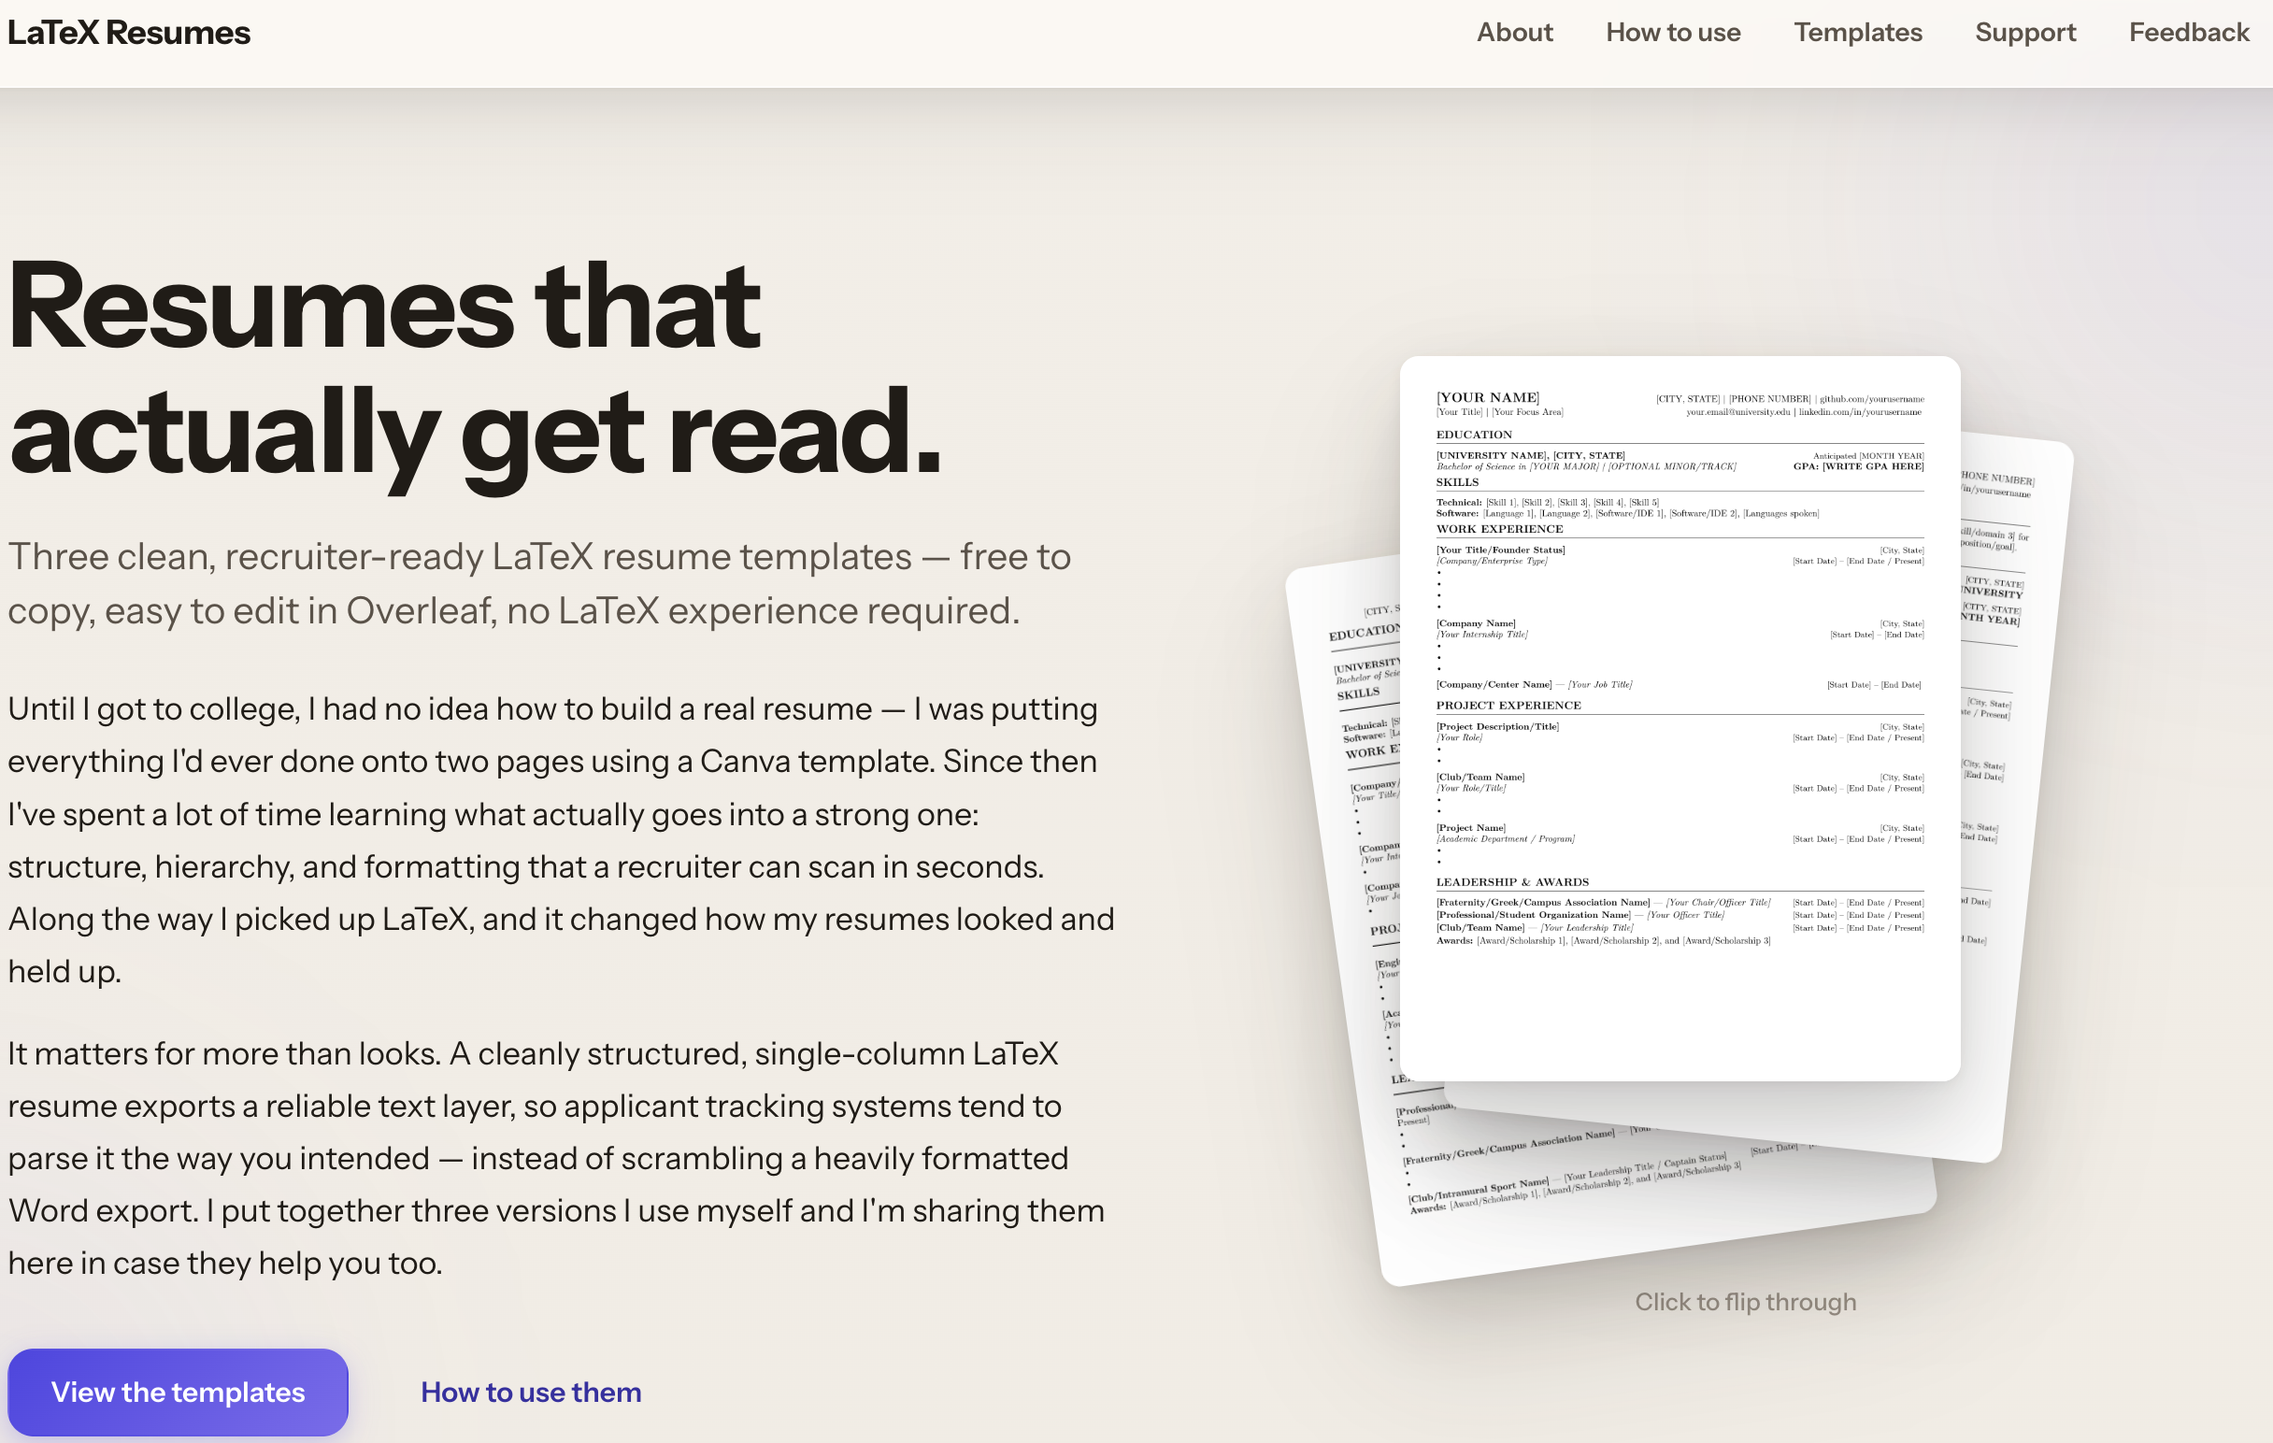
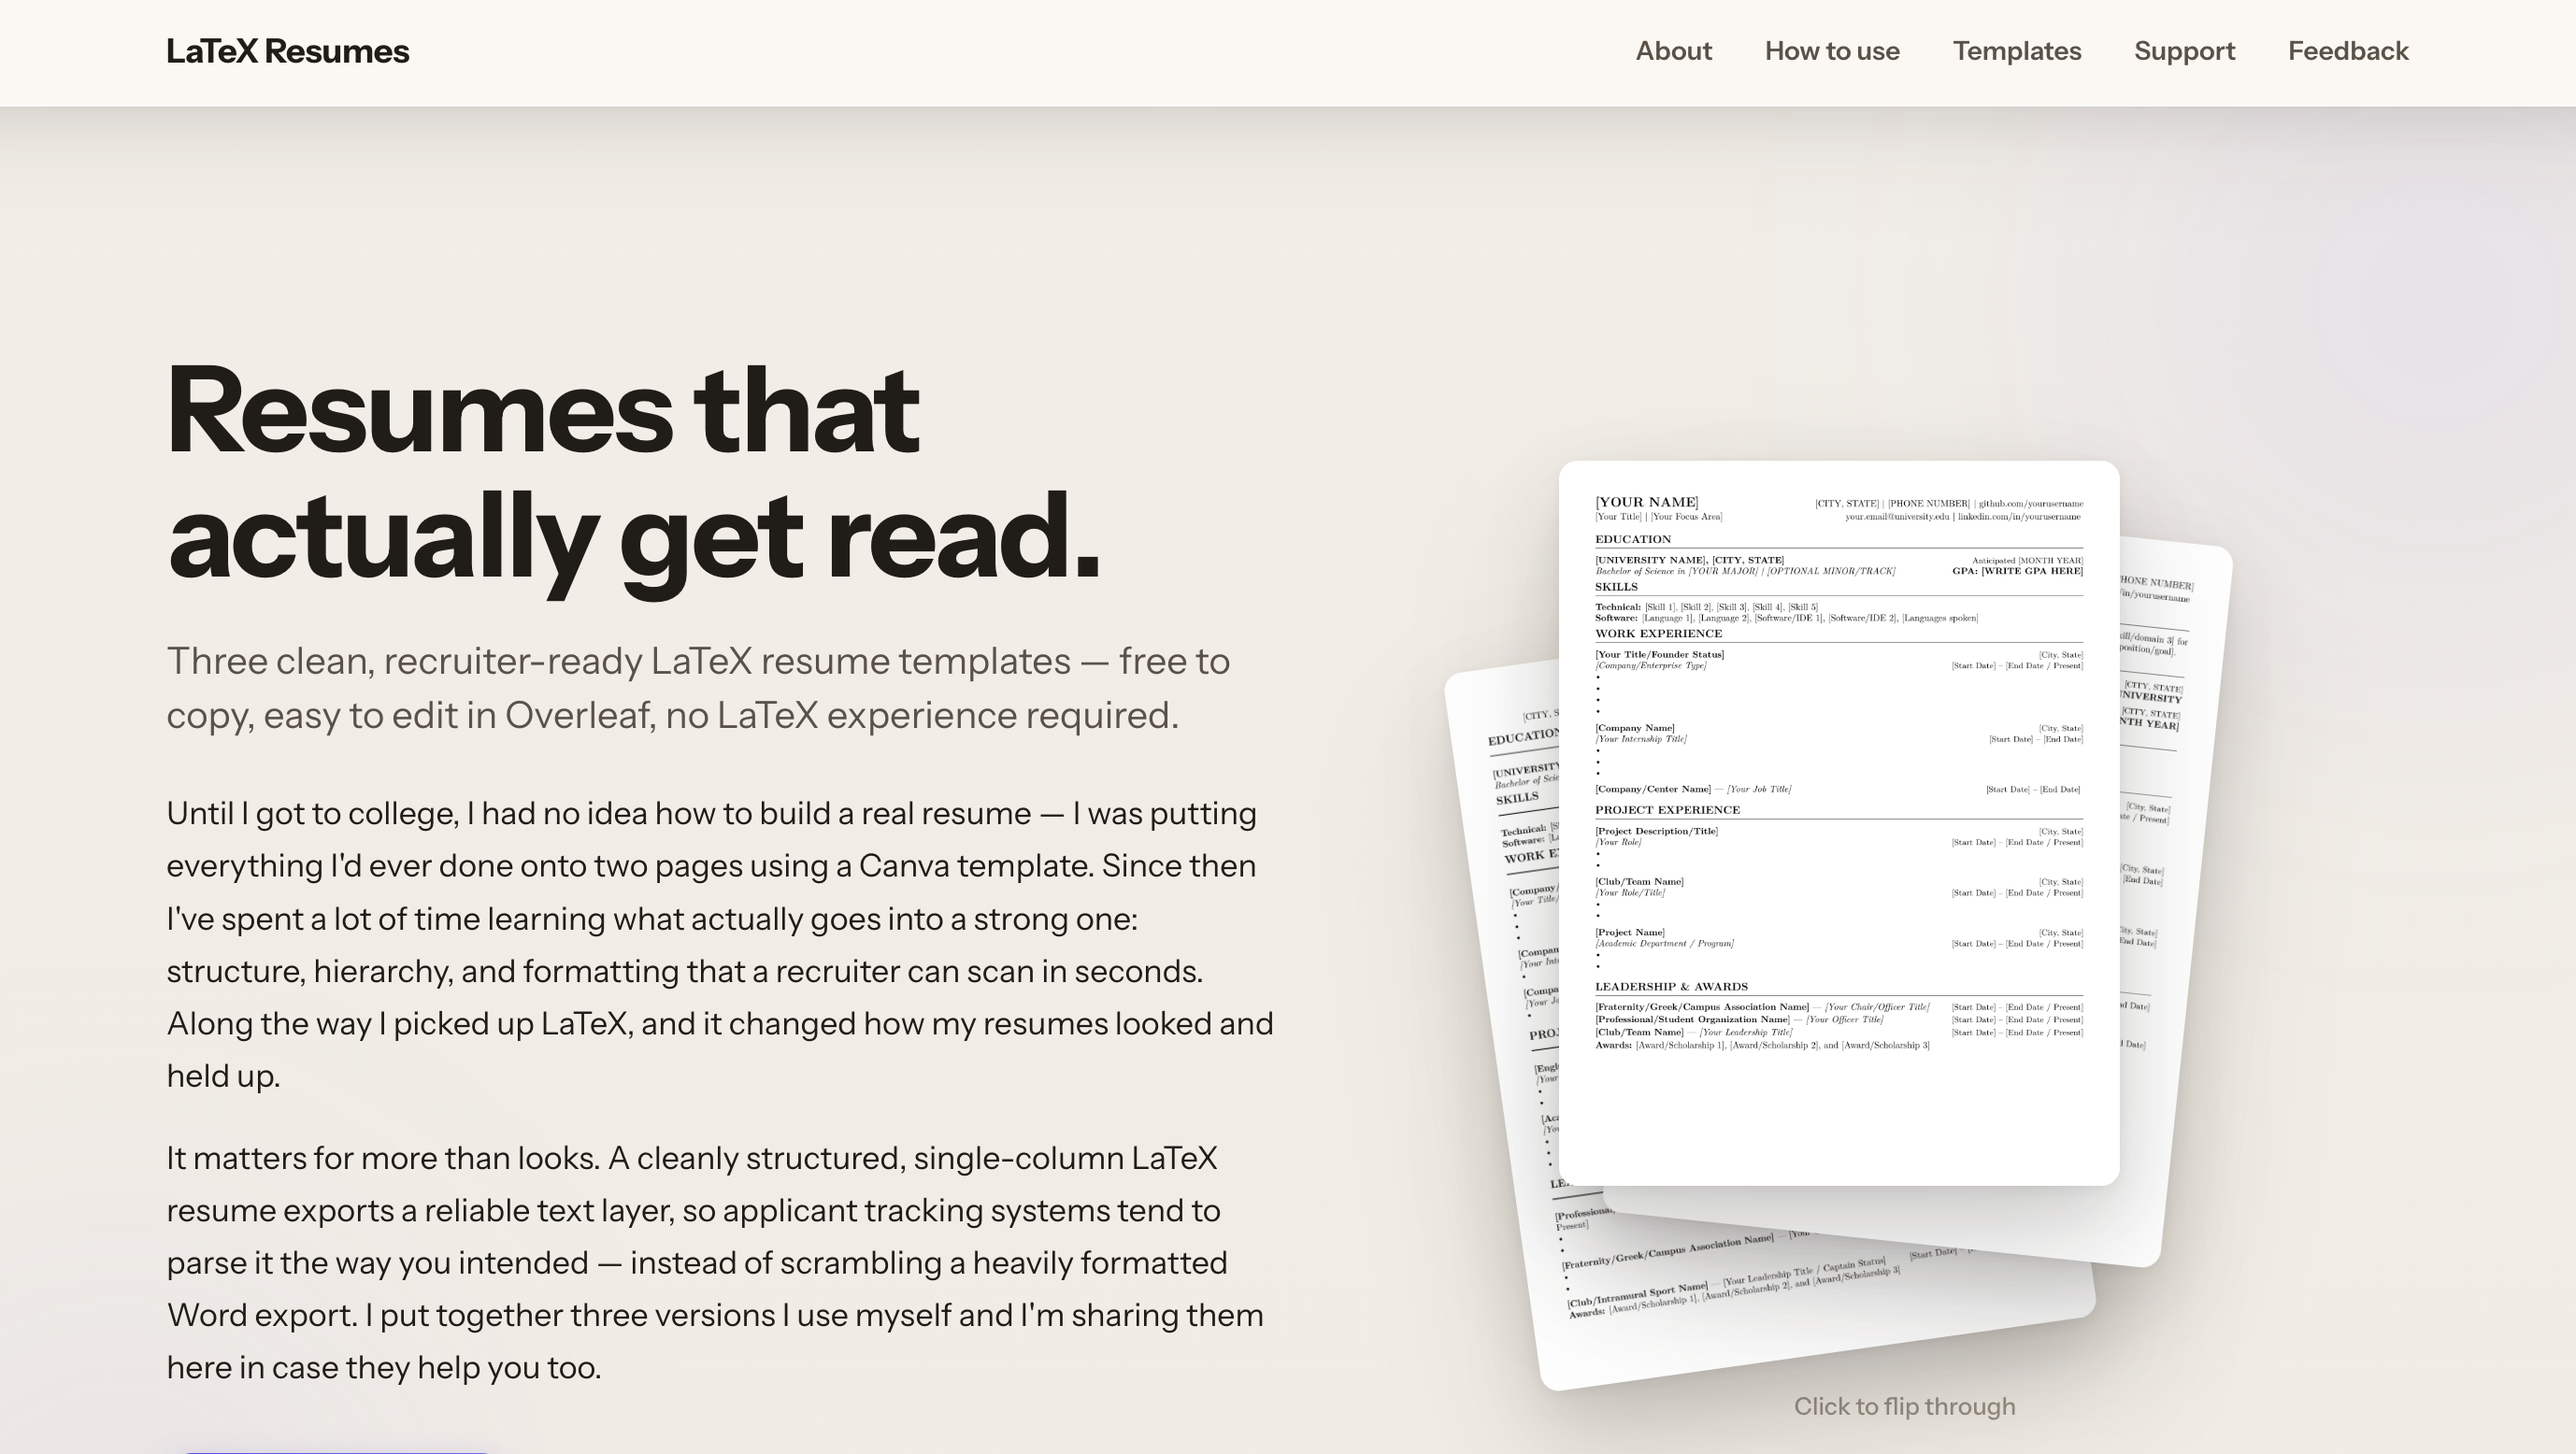
feat: full-width plasma in hero, update LaTeX Resumes screenshot
Add back a hero-scoped canvas (no center fade) that scrolls away with the
hero content, so the plasma effect spans full width through the hero
section (down through the Chicago/Northwestern/Versed meta line). The
fixed page-wide bg-canvas keeps its center-fade edge-only look for
everything below the hero, unchanged.

Also swap in the updated LaTeX Resumes project screenshot.

diff --git a/css/style.css b/css/style.css
@@ -303,6 +303,17 @@ h1, h2, h3, h4 {
   -webkit-mask-image: linear-gradient(to right, black 0%, black 6%, transparent 35%, transparent 65%, black 94%, black 100%);
 }
 
+/* Full-width (no center fade), scrolls away with the hero content —
+   below the hero, only the fixed #bg-canvas (with its center fade) shows. */
+#hero-canvas {
+  position: absolute;
+  inset: 0;
+  width: 100%;
+  height: 100%;
+  z-index: 0;
+  opacity: 0.85;
+}
+
 .hero-inner {
   position: relative;
   z-index: 2;

diff --git a/index.html b/index.html
@@ -51,6 +51,7 @@
 
   <!-- ============================= HERO ============================= -->
   <header class="hero">
+    <canvas id="hero-canvas" aria-hidden="true"></canvas>
     <div class="container hero-inner">
       <div class="hero-kicker">[ SWE &amp; FINTECH // AVAIL 2029 ]</div>
       <h1><span class="accent">Roli Vela</span><br />Software. Hardware. P&amp;L.</h1>

diff --git a/js/main.js b/js/main.js
@@ -256,3 +256,9 @@ initFieldCanvas(document.getElementById("bg-canvas"), {
   lineColor: "rgba(79, 214, 255, ALPHA)",
   density: 1.3,
 });
+
+initFieldCanvas(document.getElementById("hero-canvas"), {
+  nodeColor: "rgba(232, 182, 79, 0.6)",
+  lineColor: "rgba(79, 214, 255, ALPHA)",
+  density: 1.3,
+});
